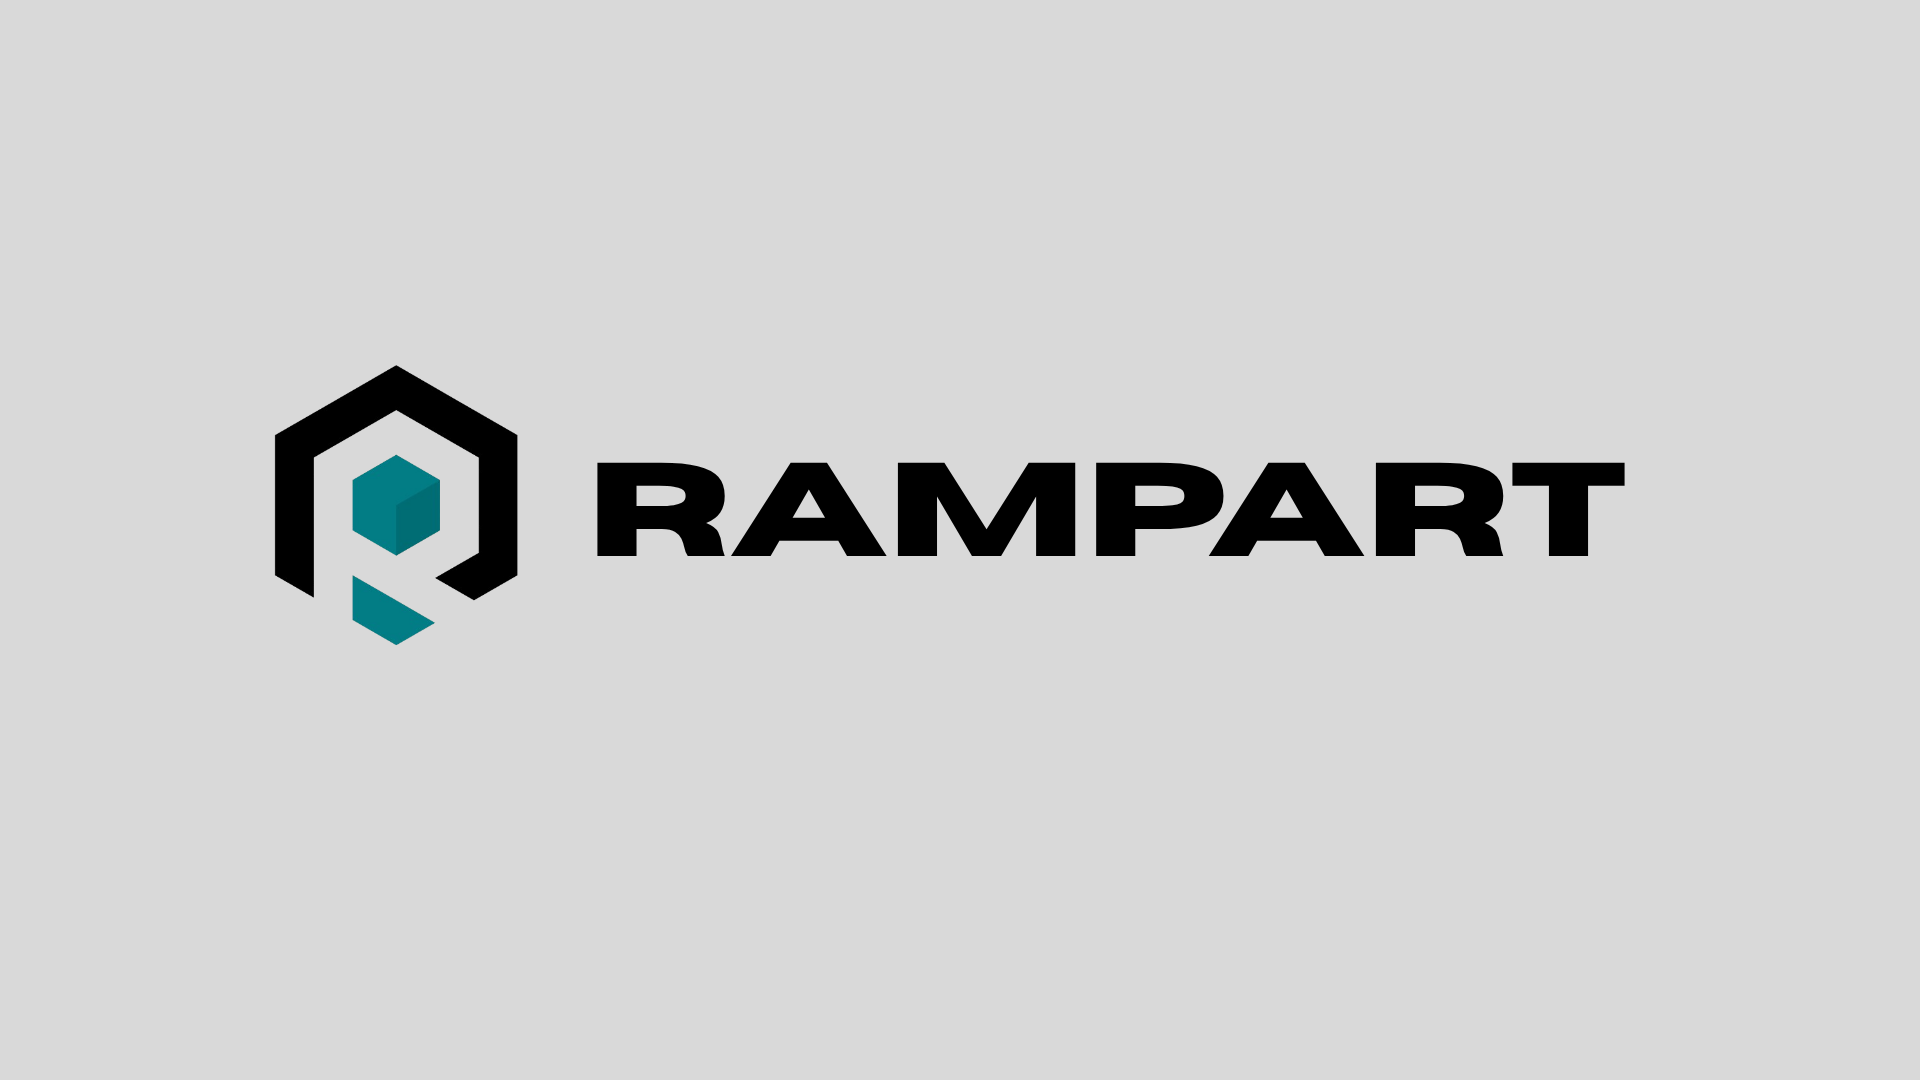
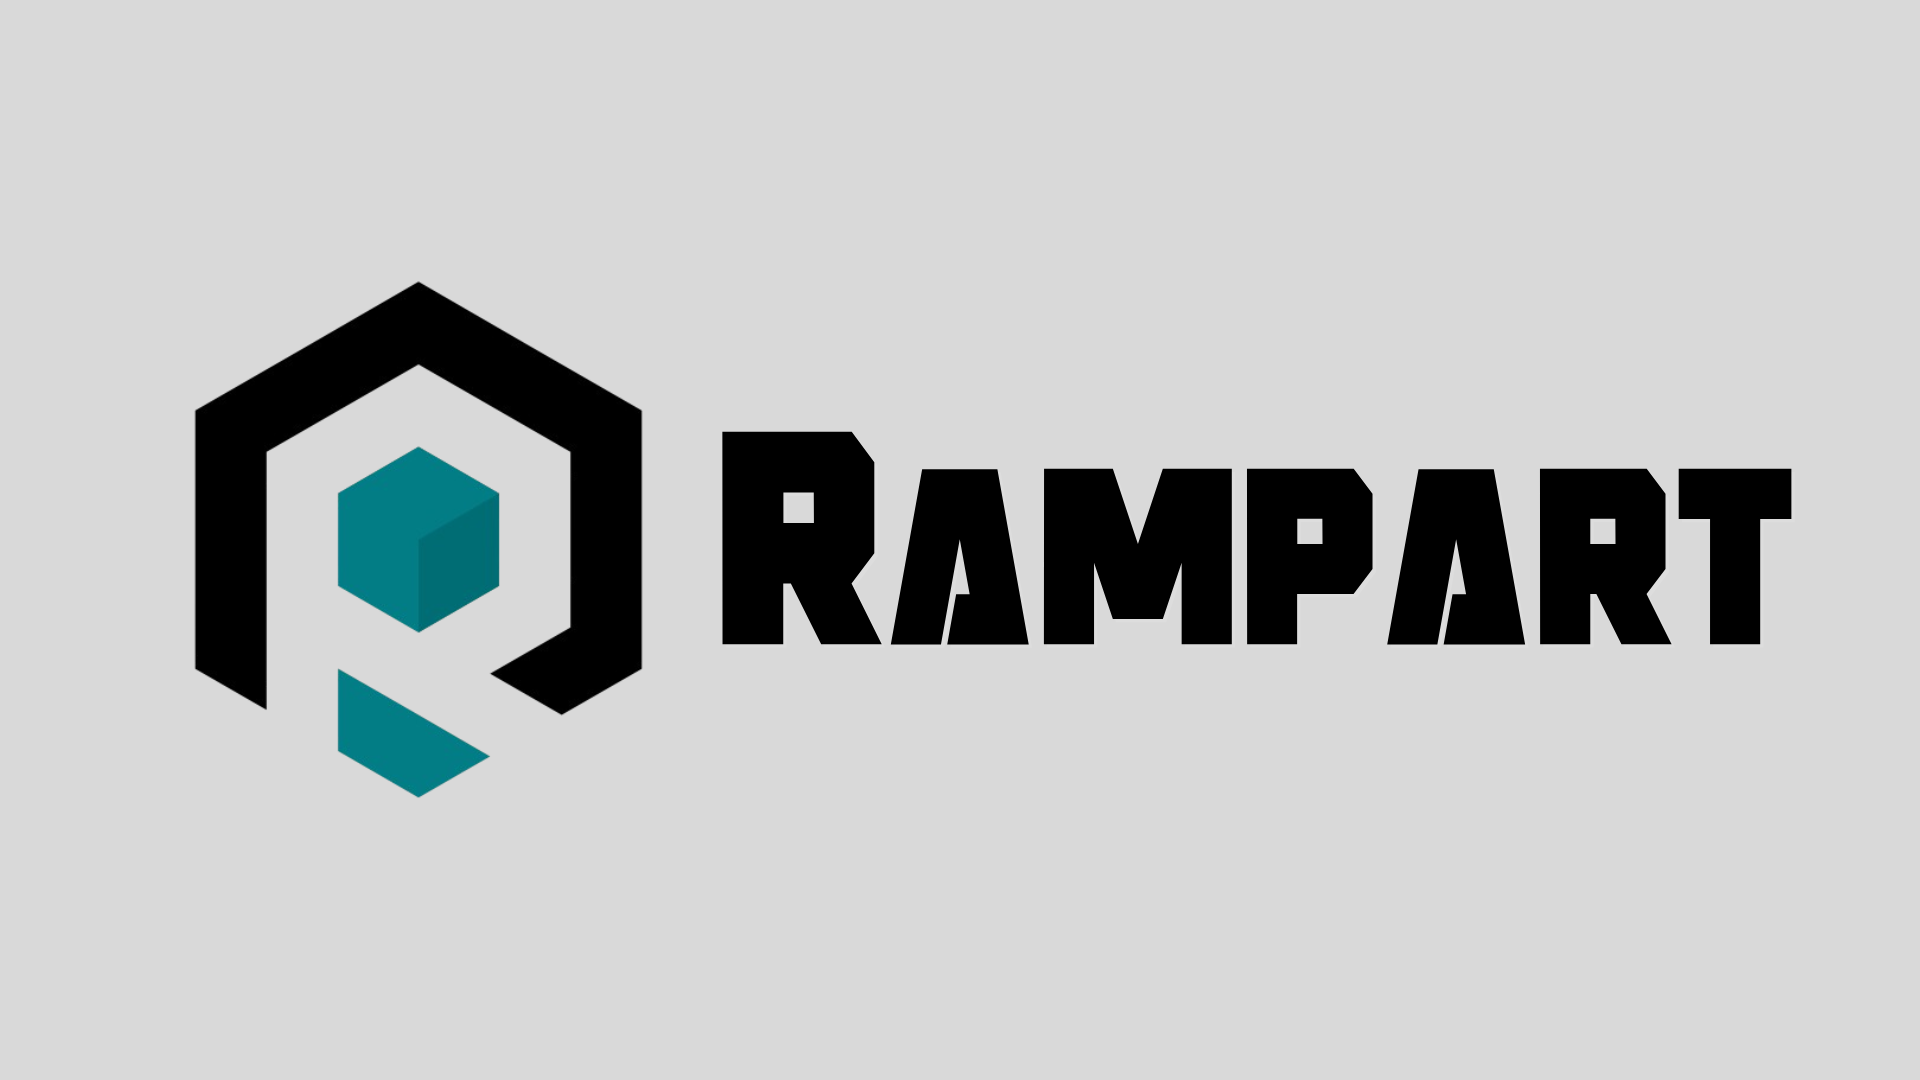
Modified Experience Image and name

Changed region(s): [[0.0938, 0.2444, 0.9375, 0.7333]]

diff --git a/index.html b/index.html
@@ -67,7 +67,7 @@
                         class="card1-image"
                         src="assets/images/experience/rampart.png"/>
                     <div class="card1-text">
-                        <h2>Rampart LLC</h2>
+                        <h2>Rampart</h2>
                         <h3>Lead Systems Engineer</h3>
                         <h4>November 2025 - Current</h4>
                     </div>
